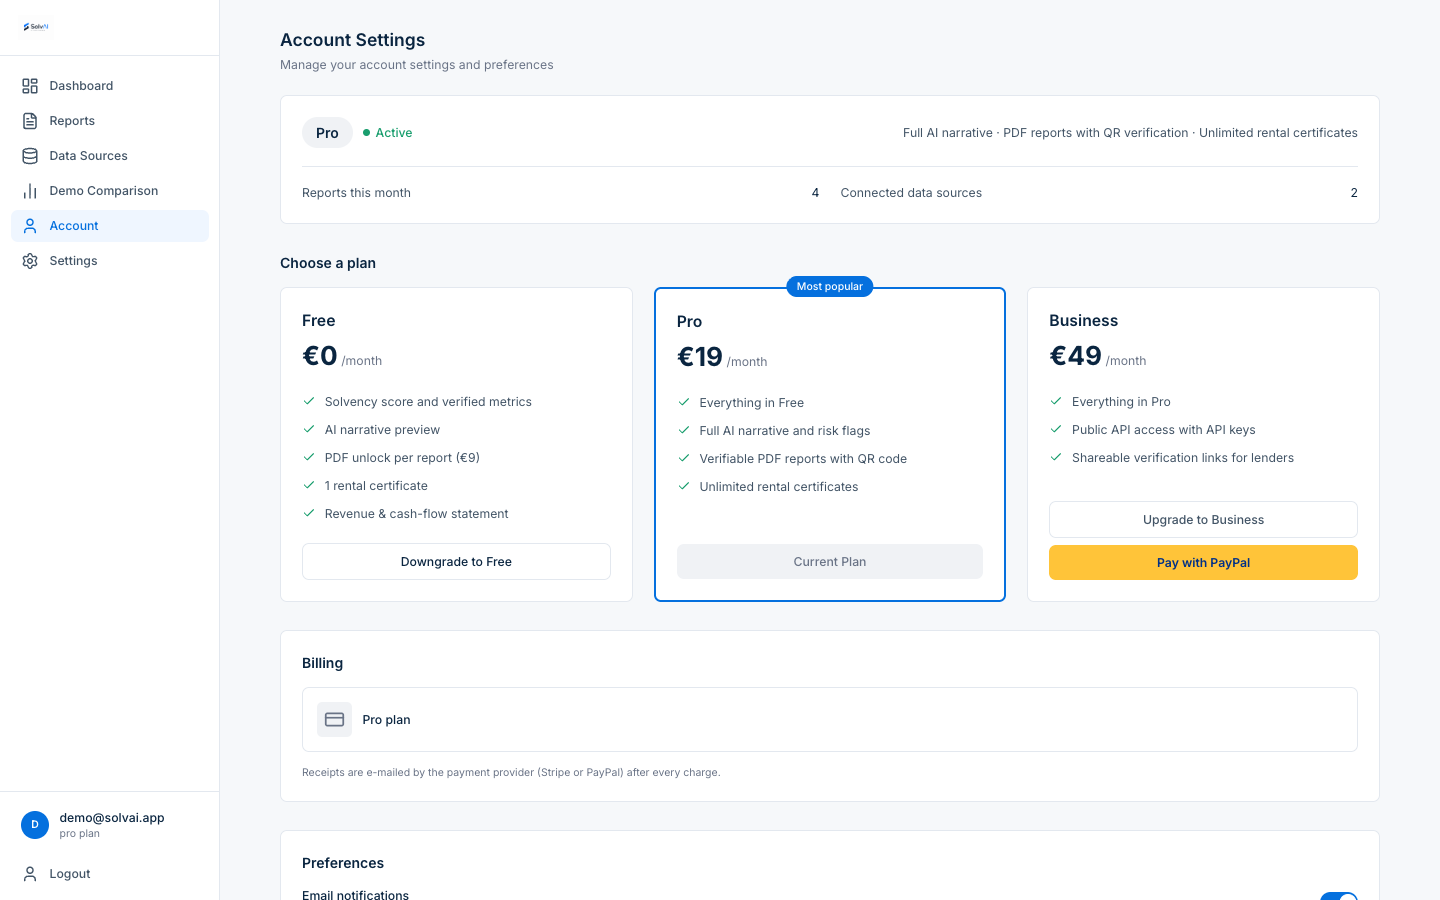
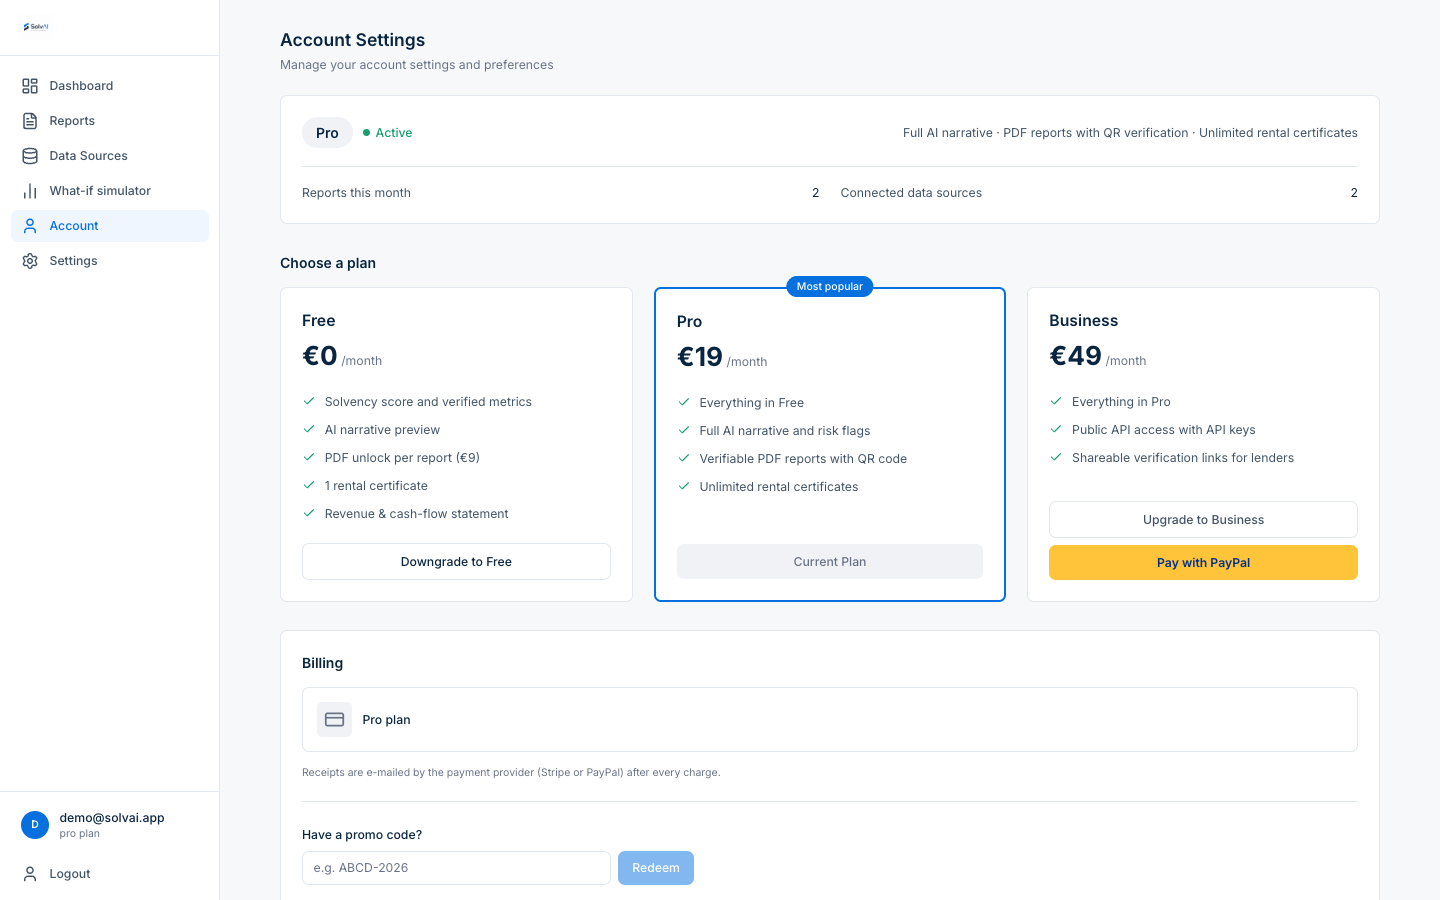
docs: update demo materials after the deployment rehearsal
- Video script: nine scenes in 2:50, with the what-if simulator and an accurate
  description of the QR code
- Screenshots retaken from the final app, plus first-run guide and simulator
- deploy-vm: Hetzner steps, measured memory and a go-live checklist
- New judges-testing guide with placeholders for the URL, code and sandbox buyer
- README: one-click demo data, new screenshots, roadmap cleanup
- What-if simulator shows platform names as "Stripe + PayPal"

diff --git a/frontend/src/pages/WhatIfPage.jsx b/frontend/src/pages/WhatIfPage.jsx
@@ -3,6 +3,7 @@ import { useTranslation } from 'react-i18next';
 import { useNavigate } from 'react-router-dom';
 import { ArrowDownRight, ArrowUpRight, Loader2, RotateCcw } from 'lucide-react';
 import { simulate } from '../api/client.js';
+import { platformLabel } from '../utils/platforms.js';
 
 const cn = (...classes) => classes.filter(Boolean).join(' ');
 const NO_CHANGE = { revenue_change_percent: 0, smoothing_percent: 0, top_client_percent: null };
@@ -172,7 +173,7 @@ export default function WhatIfPage() {
             </table>
           )}
           <p className="text-xs text-muted mt-4">
-            {t('simulator.note', { months: result?.baseline.months_analyzed ?? '—', platforms: (result?.platforms || []).join(' + ') })}
+            {t('simulator.note', { months: result?.baseline.months_analyzed ?? '—', platforms: (result?.platforms || []).map(platformLabel).join(' + ') })}
           </p>
         </div>
       </div>

diff --git a/docs/video-script.md b/docs/video-script.md
@@ -1,13 +1,13 @@
 # Demo video script (under 3 minutes)
 
-Target length **2:45**. Narration is about 390 words at a calm pace (around 140 words per minute). Record the screen at 1440×900 or 1920×1080, browser zoom 100%, light theme.
+Target length **2:50** (Devpost's limit is 3:00). Narration is about 300 words (a little over 2 minutes at 140 words per minute), which leaves room for the on-screen actions. Record the screen at 1440×900 or 1920×1080, browser zoom 100%, light theme.
 
 ## Before recording (checklist)
 
-- [ ] Demo data is fresh: `python scripts/seed_stripe.py --top-up` (Stripe) and a few days of `seed_paypal_sandbox.py` (PayPal). See [demo.md](demo.md).
+- [ ] Demo data is fresh: `python scripts/seed_stripe.py --top-up` (Stripe; run it after the 1st of the month too, or the last complete month looks short) and a few days of `seed_paypal_sandbox.py` (PayPal). See [demo.md](demo.md). Re-run `create_demo_account.py` afterwards so the account reads the new data.
 - [ ] The demo account exists and is Pro: `create_demo_account.py` (see [deploy-vm.md](deploy-vm.md)). Log in once to check that the dashboard loads.
 - [ ] Delete old reports except one completed report, so the list is clean.
-- [ ] Open a second browser profile logged into the PayPal **sandbox** buyer account ("John"), for scene 7.
+- [ ] Open a second browser profile logged into the PayPal **sandbox** buyer account ("John"), for scene 8.
 - [ ] Close notifications, hide bookmarks, and use a clean browser window with only the SolvAI tab.
 - [ ] Test the microphone. Record the voice-over separately if that is easier, and cut the screen recording to it.
 
@@ -15,18 +15,19 @@ Target length **2:45**. Narration is about 390 words at a calm pace (around 140 
 
 | # | Time | On screen | Narration |
 |---|---|---|---|
-| 1 | 0:00–0:15 | Landing page hero, slow scroll to "No made-up numbers" | Banks score borrowers with explainable credit models the borrower never sees. If you're a freelancer with irregular income from a handful of clients, you usually just get a "no", with no reason attached. |
-| 2 | 0:15–0:30 | Back to the hero; click **Get your free report** → log in | SolvAI gives freelancers the report a lender would build, before they apply. Every score is explained, and every figure is traced back to real transactions. |
-| 3 | 0:30–0:50 | **Data Sources**: Stripe and PayPal cards connected; hover over PayPal | It starts with the accounts you already get paid through. Here, a Stripe account and a PayPal business account. For PayPal we read the full payment history with the Transaction Search API, net of refunds, and count each paying client once. |
-| 4 | 0:50–1:25 | **Dashboard** → **Generate Report**; the live terminal fills step by step | Generating a report runs a multi-agent pipeline, streamed live. First, a deterministic quant step computes the facts: income volatility, trend by regression, weak months, client concentration and payment integrity. Then a Gemini underwriter writes the report from three parallel samples, and an auditor checks every figure against those facts. Here it sent the first draft back, and approved the second. |
-| 5 | 1:25–2:00 | **Reports** → open the report; scroll the narrative, then **Verified metrics** | The narrative quotes the verified metrics instead of inventing them. Each factor shows its value, the threshold a lender would use, and the real Stripe and PayPal transaction IDs behind it. When the history is short, as with this new PayPal account, the report says so and never extrapolates. If there's no data, the report fails with a clear reason instead of guessing. |
-| 6 | 2:00–2:20 | Click **Download PDF**; show the analytics page and the appendix; point at the QR code | The result is a lender-ready PDF, with the analytics and an appendix of every cited payment. The QR code links to a verification page, so a lender can confirm the report is genuine. |
-| 7 | 2:20–2:40 | **Account** → **Pay with PayPal** (Business) → PayPal sandbox approval → back to SolvAI, plan active | PayPal also powers billing. Pro and Business plans are PayPal Subscriptions: approve once on PayPal, and the plan activates as soon as SolvAI reads the active subscription back. Webhooks keep it in sync. |
-| 8 | 2:40–2:50 | Back on the dashboard with the score | SolvAI: PayPal as the data and the payment rail, Gemini for the reasoning, and no made-up numbers. Freelancers deserve to see why. |
+| 1 | 0:00–0:13 | Landing page hero, slow scroll to "No made-up numbers" | Banks score borrowers with explainable models the borrower never sees. If you're a freelancer with irregular income, you usually just get a "no", with no reason attached. |
+| 2 | 0:13–0:25 | Back to the hero; click **Get your free report** → log in | SolvAI gives freelancers the report a lender would build, before they apply. Every score is explained, and every figure is traced back to real transactions. |
+| 3 | 0:25–0:42 | **Data Sources**: Stripe and PayPal cards connected; hover over PayPal | It starts with the accounts you already get paid through. For PayPal we read the full payment history with the Transaction Search API, net of refunds, and count each paying client once. |
+| 4 | 0:42–1:14 | **Dashboard** → **Generate Report**; the live terminal fills step by step | Generating a report runs a multi-agent pipeline, streamed live. A deterministic quant step computes the facts: volatility, trend, weak months, client concentration and payment integrity. A Gemini underwriter writes the report from three parallel samples, and an auditor checks every figure against those facts. Here it sent the first draft back, and approved the second. |
+| 5 | 1:14–1:42 | **Reports** → open the report; scroll the narrative, then **Verified metrics** | The narrative quotes the verified metrics instead of inventing them. Each factor shows its value, a lender's threshold, and the real Stripe and PayPal transaction IDs behind it. If the data is short, the report says so. If there's none, it fails with a clear reason instead of guessing. |
+| 6 | 1:42–1:58 | Click **Download PDF**; show the analytics page and the appendix; point at the QR code | The result is a lender-ready PDF, with an appendix of every cited payment. Its QR code opens the copy SolvAI holds, so a lender can compare the two. |
+| 7 | 1:58–2:16 | **What-if simulator**: move *Smoother income* and *Top client share*; the Scenario column updates | What would change a lender's view? The simulator recomputes those same metrics from your own data as you move the levers. It's pure arithmetic, so it never invents a score. |
+| 8 | 2:16–2:38 | **Account** → **Pay with PayPal** (Business) → PayPal sandbox approval → back to SolvAI, plan active | PayPal also powers billing. Pro and Business plans are PayPal Subscriptions: approve once on PayPal, and the plan activates as soon as SolvAI reads the active subscription back. Webhooks keep it in sync. |
+| 9 | 2:38–2:50 | Back on the dashboard with the score | SolvAI: PayPal as the data and the payment rail, Gemini for the reasoning, and no made-up numbers. Freelancers deserve to see why. |
 
 ## Cutting notes
 
 - Scene 4 is the "wow" moment. If the auditor approves first time, keep the take: drop "Here it sent the first draft back" and say "Here it approved the draft".
-- Report generation takes about 30–45 seconds. Speed up the waiting part of scene 4 (2–4×) but keep each new terminal line readable for at least one second.
-- Scene 7 involves a real sandbox payment: record it once in advance and cut it in, so a slow sandbox doesn't spoil the take.
+- Report generation takes about 40–70 seconds. Speed up the waiting part of scene 4 (2–4×) but keep each new terminal line readable for at least one second.
+- Scene 8 involves a real sandbox payment: record it once in advance and cut it in, so a slow sandbox doesn't spoil the take.
 - Upload to YouTube as **Unlisted** or **Public** (not Private), and paste the link into Devpost.

diff --git a/README.md b/README.md
@@ -12,7 +12,8 @@
   <a href="docs/architecture.md">Architecture</a> ·
   <a href="docs/deploy-vm.md">Deploy (single VM)</a> ·
   <a href="docs/deployment.md">Deploy (Cloud Run)</a> ·
-  <a href="docs/demo.md">Demo data</a>
+  <a href="docs/demo.md">Demo data</a> ·
+  <a href="docs/judges-testing.md">Testing guide</a>
 </p>
 
 <p align="center">
@@ -30,6 +31,7 @@ Banks score borrowers with explainable credit models that the borrower never get
 
 ## Features
 
+- **One-click demo data.** Anyone can try SolvAI without their own accounts: **Try with demo data** connects a Stripe test account and a PayPal sandbox, with credentials kept on the server.
 - **Real data, no guesses.** Connects Stripe (secret key), PayPal (REST credentials, Transaction Search), CSV bank statements, Xero and open banking (Belvo). If there is no data, the report fails with a clear reason. It never fabricates figures.
 - **Explainable scoring.** Each report covers income stability, growth trend, seasonality, client concentration and reputation signals. The AI scores are grounded on deterministic metrics shown alongside them, each with its value, threshold and plain-language explanation. For each factor it gives a score, a plain-language explanation, what it means to a lender, and references to the transactions behind it.
 - **Multi-agent pipeline.** A [LangGraph](https://github.com/langchain-ai/langgraph) graph runs three steps. A deterministic quant step computes the verified metrics: income volatility (coefficient of variation), revenue trend (least-squares regression with R²), weak months and client concentration (Herfindahl-Hirschman Index). A Gemini underwriter runs as three parallel self-consistency samples. A temperature-0 auditor sends weak drafts back for revision.
@@ -49,7 +51,8 @@ The demo account below is the same one judges use: 12 months of Stripe test data
 | ![Landing page](docs/images/landing.png) **Landing:** the solvency report a lender would build, for freelancers | ![Live analysis](docs/images/live-terminal.png) **Live analysis:** the agent pipeline streamed over WebSockets, including an auditor revision round |
 | ![Report detail](docs/images/report-detail.png) **Report:** a narrative that quotes the verified metrics | ![Verified metrics](docs/images/verified-metrics.png) **Verified metrics:** each factor with its threshold, explanation and real transaction IDs |
 | ![Data sources](docs/images/data-sources.png) **Data sources:** Stripe and PayPal connected, CSV bank statements | ![PayPal billing](docs/images/billing-paypal.png) **Billing:** Pro and Business paid with PayPal Subscriptions |
-| ![PDF report](docs/images/pdf-report.png) **PDF:** deterministic analytics and an appendix of cited payments | |
+| ![PDF report](docs/images/pdf-report.png) **PDF:** deterministic analytics and an appendix of cited payments | ![What-if simulator](docs/images/what-if.png) **What-if simulator:** verified metrics recomputed from real data, with no invented score |
+| ![First-run guide](docs/images/onboarding.png) **First run:** three guided steps, with one-click demo data | |
 
 ## Tech stack
 
@@ -152,7 +155,6 @@ CI runs the same checks on every push. It also applies every Alembic migration t
 ## Roadmap
 
 - Historical comparison between a user's reports
-- Guided onboarding for first-time users
 - Expense-side data (bank outflows) for a full cash-flow view
 - Migration to the new `google-genai` SDK
 

diff --git a/docs/deploy-vm.md b/docs/deploy-vm.md
@@ -11,13 +11,18 @@ Internet ──443──▶ Caddy ──┬── /api/*  ──▶ api (FastAPI
 - Caddy obtains and renews the Let's Encrypt certificate by itself.
 - Migrations run automatically (`migrate` service) before the API starts.
 - Postgres data and TLS certificates live in Docker volumes and survive restarts.
-- Idle memory is about 650 MB; report generation needs headroom. Use a VM with **at least 2 GB RAM** (4 GB or more is comfortable).
+- Idle memory is about 650 MB. Three reports generated at once peaked at about 1 GB in total. Use a VM with **at least 2 GB RAM** (4 GB or more is comfortable).
 
 The Cloud Run pipeline (`cloudbuild.yaml`, [deployment.md](deployment.md)) remains the scalable production path. This setup is the cheapest way to keep a demo online.
 
 ## 1. Create the VM
 
 Any provider works. Use Ubuntu 22.04 or 24.04, x86-64 or ARM64, at least 2 GB of RAM and a public IPv4 address.
+
+**Hetzner Cloud** (CX23 x86 or CAX11 ARM, both 4 GB, a few euros a month):
+
+1. Create a server with Ubuntu 24.04 and add your SSH public key. Note its **public IP**.
+2. Log in as `root`: the commands below use `ubuntu@`, so replace it. Hetzner has no firewall by default; if you attach one, allow inbound TCP 22, 80 and 443.
 
 **Oracle Cloud Always Free** (€0, needs a card for verification):
 
@@ -89,6 +94,17 @@ To update to the latest `main`, run the same command again: it pulls and rebuild
   docker compose -f deploy/docker-compose.prod.yml --env-file deploy/.env.prod exec \
     api python scripts/create_promo_code.py <CODE> --plan pro --max-uses 300 --expires 2026-12-31
   ```
+
+## Go-live checklist
+
+Rehearsed from empty volumes: the stack builds and passes its health check, migrations apply, and the post-deploy steps take under a minute.
+
+1. Create the VM and install Docker (steps 1 and 2).
+2. Clone the repository and fill in `deploy/.env.prod` (steps 3 and 4), including the `DEMO_*` values. For public use, take `GEMINI_API_KEY` from a billing-enabled project with a low spending limit.
+3. Run `./deploy/deploy.sh` and open `https://$DOMAIN`.
+4. Top up the demo data, create the demo account and create the judges' promo code (step 6).
+5. Add the PayPal webhook, set `PAYPAL_WEBHOOK_ID` and run `./deploy/deploy.sh` again (step 6).
+6. In a private window, follow [judges-testing.md](judges-testing.md) from start to finish, and scan the PDF's QR code with a phone.
 
 ## Operating it
 

diff --git a/docs/demo.md b/docs/demo.md
@@ -11,7 +11,7 @@ PAYPAL_SANDBOX_SECRET=...
 
 ## Stripe (12 months of history)
 
-The Stripe test account behind `STRIPE_DEMO_TEST_KEY` ("SolvAIDEMO2", seeded 2026-10-26) holds 12 complete months plus the current one, generated by `backend/scripts/seed_stripe.py`. The profile is about €6,900/month, 10 clients, top client about 26%, income CoV about 19%, a gentle +1.2%/month growth and a quieter August.
+The Stripe test account behind `STRIPE_DEMO_TEST_KEY` ("SolvAIDEMO2", seeded 2026-10-26) holds 12 complete months plus the month it was seeded in, generated by `backend/scripts/seed_stripe.py`. The profile is about €6,900/month, 10 clients, top client about 26%, income CoV about 19%, a gentle +1.2%/month growth and a quieter August.
 
 Stripe cannot create charges in the past, so each seeded charge stores its date in `metadata.historical_created`. The app honours that field **only for test-mode keys**; in live mode it would let anyone backdate charges.
 
@@ -70,7 +70,7 @@ launchctl bootout gui/$(id -u)/com.solvai.paypal-seed                           
 
 1. Register a fresh account.
 2. Go to **Data Sources** and click **Try with demo data**. It connects the Stripe test account and the PayPal sandbox with credentials kept on the server, and labels both sources "Demo data". The button only shows when the server has `DEMO_STRIPE_TEST_KEY` (a `sk_test_` key) and, optionally, `DEMO_PAYPAL_CLIENT_ID` / `DEMO_PAYPAL_SECRET`. You can also connect **Stripe** and **PayPal** by hand with the same keys.
-3. On the **Dashboard**, click **Generate New Report** and watch the Intelligence Terminal stream the pipeline steps.
+3. On the **Dashboard**, click **Generate Report** and watch the Intelligence Terminal stream the pipeline steps. A new account gets a three-step guide with the same actions.
 4. Open the report: the score, explainable factors, risk flags and data references, each traceable to transactions.
 5. Download the PDF (Pro/Business, or unlock per report) and scan the QR code to verify it. A fresh account gets Pro with the judges' promo code, at sign-up or under **Account** (see [deploy-vm.md](deploy-vm.md)).
 

diff --git a/docs/judges-testing.md b/docs/judges-testing.md
@@ -1,0 +1,24 @@
+# Testing SolvAI
+
+SolvAI runs on test-mode data here: a Stripe test account and a PayPal sandbox. No real money or personal financial data is involved.
+
+**Live app:** `<APP_URL>`
+**Promo code:** `<JUDGES_CODE>` (shared with judges in the submission's testing instructions)
+
+## Five-minute path
+
+1. Open the app and choose **Get your free report**. Sign up with any email and enter the promo code. It gives you the Pro plan, which includes the PDF. If you skip it, you can redeem it later under **Account → Billing**.
+2. On the dashboard, click **Try with demo data**. It connects the demo Stripe account and PayPal sandbox; you need no keys.
+3. Click **Generate Report** and watch the agents work in the live terminal. It takes about a minute.
+4. Click **Open my report**, then open the report. Under **Verified metrics**, each figure shows its threshold and the real transaction IDs behind it.
+5. Download the PDF and scan its QR code: it opens the copy SolvAI holds.
+6. Open **What-if simulator** and move the sliders. The metrics are recomputed from the same data, with no AI and no invented score.
+
+## PayPal Subscriptions
+
+Under **Account**, choose **Pay with PayPal** on a plan above your current one and approve with a PayPal **sandbox** buyer account. No real payment is made. Sandbox buyer: `<SANDBOX_BUYER_EMAIL>` / `<SANDBOX_BUYER_PASSWORD>`.
+
+## What to expect
+
+- Scores come from an AI underwriter, so they can vary by a few points between runs on the same data. The verified metrics never change for the same data.
+- The auditor may send a draft back for revision. That is the system working, and it adds a few seconds.
